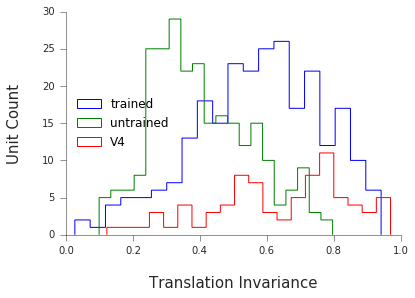
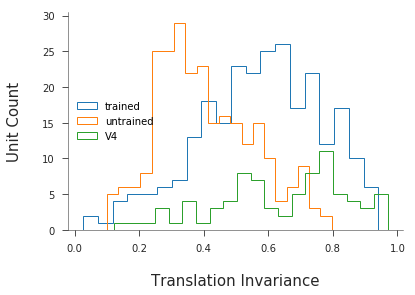
edited figures for paper and started on rf 2d

diff --git a/analysis/figures/scripts/all_v4cnn_figures.py b/analysis/figures/scripts/all_v4cnn_figures.py
@@ -125,13 +125,13 @@ def cartesian_axes(ax, x_line=True, y_line=True, unity=False):
     
     if x_line:
         #ax.spines['bottom'].set_position('center')
-        ax.plot([xlim[0], xlim[1]], [0, 0], color=more_grey,lw=2, alpha=0.5)
+        ax.plot([xlim[0], xlim[1]], [0, 0], color=more_grey,lw=1, alpha=0.5)
     if y_line:
         #ax.spines['left'].set_position('center')
-        ax.plot([0, 0], [ylim[0], ylim[1]], color=more_grey,lw=2,alpha=0.5)
+        ax.plot([0, 0], [ylim[0], ylim[1]], color=more_grey,lw=1,alpha=0.5)
     
     if unity:
-        ax.plot(xlim, xlim, color=more_grey, lw=2,alpha=0.5)
+        ax.plot(xlim, xlim, color=more_grey, lw=1,alpha=0.5)
 
     
         
@@ -334,10 +334,15 @@ no_blank_image = trans_img_stack[1:]
 a = np.hstack((range(14), range(18, 318)));a = np.hstack((a, range(322, 370)))
 no_blank_image = no_blank_image[a]/255.
 #%%
+if sys.platform == 'linux2': 
+    data_dir = '/loc6tb/dean/'
+else:
+    data_dir = top_dir
 
 goforit = 1
 #loading up all needed data
 if 'cnn_an' not in locals() or goforit:
+    
     v4_name = 'V4_362PC2001'
     v4_resp_apc = xr.open_dataset(top_dir + 'data/responses/' + v4_name + '.nc')['resp'].load()
     v4_resp_apc = v4_resp_apc.transpose('shapes', 'unit')
@@ -370,12 +375,14 @@ if 'cnn_an' not in locals() or goforit:
     v4_resp_apc = v4_resp_apc.transpose('shapes','unit')
     for unit in range(len(v4_resp_apc_null.coords['unit'])):
         v4_resp_apc_null[:, unit] = np.random.permutation(v4_resp_apc[:, unit].values)
-
+        
     null_v4 = process_V4(v4_resp_apc_null, v4_resp_ti_null, dmod)
     
     cnn_names =['bvlc_reference_caffenetAPC362_pix_width[32.0]_pos_(64.0, 164.0, 51)',]
-    
-    da = xr.open_dataset(top_dir + 'data/responses/' + cnn_names[0] + '.nc')['resp']
+    if sys.platform == 'linux2':
+        da = xr.open_dataset(data_dir + 'data/responses/' + cnn_names[0] + '.nc')['resp']
+    else:
+        da = xr.open_dataset(top_dir + 'data/responses/' + cnn_names[0] + '.nc')['resp']
     da = da.sel(unit=slice(0, None, 1)).squeeze()
     middle = np.round(len(da.coords['x'])/2.).astype(int)
     da_0 = da.sel(x=da.coords['x'][middle])
@@ -605,19 +612,25 @@ for leg in hist_dat_leg:
     leg['labelspacing'] = 0
 for i, ax_ind in enumerate(hist_pos):
     ax = ax_list[ax_ind]
-    if not (ax_ind==hist_pos[-1]):
+    if i==0:
+        colors = ['r','g','b','m','c', 'k', '0.5']
+    elif i==1:
         colors = ['k','g','b','m','c', 'k', '0.5']
     else:
         colors = cm.copper(np.linspace(0,1,len(hist_dat[i])))
         colors[-1] = [1, 0, 0, 0]
-        colors = np.array([[226,128,9,1],[190,39,45,1], [127,34, 83,1], [ 119, 93, 153,1], 
-                  [54, 58, 100,1], [157,188,88,1], [75,135,71,1],[ 59, 88,62,1], [0,0,0,1]])
-        colors = colors / np.array([[255,255,255,1]])
+        #colors = np.array([[226,128,9,1],[190,39,45,1], [127,34, 83,1], [ 119, 93, 153,1], 
+                  #[54, 58, 100,1], [157,188,88,1], [75,135,71,1],[ 59, 88,62,1], [0,0,0,1]])
+        #colors = colors / np.array([[255,255,255,1]])
         
 
     for apc_vals, color in zip(hist_dat[i], colors):
         x = apc_vals.dropna().values
-        y_c, bins_c = d_hist(ax, np.sqrt(x), cumulative=True, color=color, alpha=0.75, lw=2)   
+        if i==2:
+            lw=1
+        else:
+            lw=2
+        y_c, bins_c = d_hist(ax, np.sqrt(x), cumulative=True, color=color, alpha=0.75, lw=lw)   
     bins_c = np.concatenate([apc_vals.dropna().values for apc_vals in hist_dat[i]]).ravel()
     beautify(ax, spines_to_remove=['top','right'])
     ax.set_xticks([0,0.5,1])
@@ -641,22 +654,21 @@ for i, ax_ind in enumerate(hist_pos):
     
 ax_list[0].set_title('Cumulative Distribution', fontsize=12) 
 ax_list[0].set_ylabel('Fraction < r', labelpad=0, fontsize=12) 
-ax_list[0].text(0.6, 0.1, 'V4', transform=ax_list[0].transAxes)
+ax_list[0].text(0.6, 0.1, 'V4', transform=ax_list[0].transAxes, fontsize=12)
 ax_list[0].text(0.05,0.6, 'Shuffled', transform=ax_list[0].transAxes, color='g', rotation=80)
-ax_list[0].text(0.4,0.6, 'Unshuffled', transform=ax_list[0].transAxes, color='k',rotation=45)
+ax_list[0].text(0.4,0.6, 'Unshuffled', transform=ax_list[0].transAxes, color='r',rotation=45)
 
 
 ax_list[3].text(0.5, 0.1, 'CNN all layers', transform=ax_list[3].transAxes)
-ax_list[3].text(0.2,0.75, 'Untrained', transform=ax_list[3].transAxes, color='b', rotation=60)
+ax_list[3].text(0.24,0.75, 'Untrained', transform=ax_list[3].transAxes, color='b', rotation=60)
 
 ax_list[6].text(0.5, 0.1, 'CNN by layer', transform=ax_list[6].transAxes)
-ax_list[6].text(0.22,0.5, 'conv1',transform=ax_list[6].transAxes, color=colors[0])
-ax_list[6].text(0.65,0.5, 'fc8', transform=ax_list[6].transAxes, 
-                color=colors[-2], fontsize=14)
+for name in layer_names:
+    ax_list[6].text(0.22,0.5, 'conv1',transform=ax_list[6].transAxes, color=colors[0])
+ax_list[6].text(0.65,0.5, 'fc8', transform=ax_list[6].transAxes, color=colors[-2], fontsize=14)
 ax_list[6].text(0.12, 0.09, 'V4', transform=ax_list[6].transAxes, 
-                color=colors[-1], fontsize=10)
+                color=colors[-1], fontsize=10, color='r')
 ax_list[6].set_xlabel('APC fit r', labelpad=0, fontsize=12)
-
 
 example_cell_inds = [1,4,7]
 v4 = cnn_an.loc['resp'].loc['v4']
@@ -690,11 +702,11 @@ hi_curv_resp = hi_curv_resp.reindex_like(model_resp)
 scatter_dat.append([hi_curv_resp, model_resp, b_unit])
                 
 
-kw = {'s':2., 'linewidths':0, 'c':'r'}
+kw = {'s':2., 'linewidths':0, 'c':'k'}
 colorbar = 1
 for ax_ind, dat in zip(example_cell_inds, scatter_dat):
     ax = ax_list[ax_ind]
-    x,y= scatter_lsq(ax, dat[0].values, dat[1].values, lsq=True,
+    x,y = scatter_lsq(ax, dat[0].values, dat[1].values, lsq=True,
                      mean_subtract=True, **kw)
     frac_var = np.corrcoef(x.T, y.T)[0,1]
     cartesian_axes(ax, x_line=True, y_line=True, unity=True)
@@ -769,7 +781,7 @@ gs.tight_layout(plt.gcf())
 
 labels = ['A.', 'B.', 'C.', 'D.', 'E.', 'F.', 'G.', 'H.', 'I.']
 for ax, label in zip(ax_list, labels):
-    ax.text(-0.05, 1.1, label, transform=ax.transAxes,
+    ax.text(-0, 1.1, label, transform=ax.transAxes,
       fontsize=fs+2, fontweight='bold', va='top', ha='right')
 plt.savefig(top_dir + '/analysis/figures/images/v4cnn_cur/fig'+
             str(figure_num[fig_ind])+ '_apc_figs_v4cnn.pdf', bbox_inches='tight', dpi=500)
@@ -1187,18 +1199,20 @@ plt.savefig(top_dir + '/analysis/figures/images/v4cnn_cur/fig'
 fig_ind += 1
 
 #%%
+un_inds = xr.open_dataset(top_dir + '/data/models/apc_models_362_16X16.nc')['resp'].coords['shapes'].values
 layers_to_examine = ['conv1', 'relu1', 'norm1',  'conv2', 'fc6', 'prob']
+layer_names = ['Conv1', 'Relu1', 'Norm1',  'Conv2', 'FC6', 'Prob']
 #layers_to_examine = 'all'
 name = 'bvlc_reference_caffenetAPC362_pix_width[64.0]_pos_(64.0, 164.0, 51).nc'
-cnn = [xr.open_dataset(top_dir + 'data/responses/' + name)['resp'].sel(x=114), ]
+cnn = [xr.open_dataset(data_dir + 'data/responses/' + name)['resp'].sel(x=114), ]
 
 name = 'bvlc_reference_caffenetAPC362_pix_width[32.0]_pos_(114.0, 114.0, 1)_amp_(100, 255, 2).nc'
-cnns = [xr.open_dataset(top_dir + 'data/responses/' + name)['resp'].sel(amp=amp) for amp in [255, 100]] + cnn
+cnns = [xr.open_dataset(data_dir + 'data/responses/' + name)['resp'].sel(amp=amp) for amp in [255, 100]] + cnn
 
 name = 'bvlc_reference_caffenet_nat_image_resp_371.nc'
-cnn = [xr.open_dataset(top_dir + 'data/responses/' + name)['resp'],]   
+cnn = [xr.open_dataset(data_dir + 'data/responses/' + name)['resp'],]   
 cnns = cnns + cnn
-cnns = [cnns[0], cnns[-1], cnns[1], cnns[2]]
+cnns = [cnns[0], cnns[2], cnns[1], cnns[-1]]
 
 n_plot = len(layers_to_examine)
 plt.figure(figsize=(3/1.5,n_plot*1.5/1.5))
@@ -1217,26 +1231,27 @@ for i, a_lay in enumerate(layers_to_examine):
         var = a_cnn[...,all_lays==a_lay].values.ravel()
         all_nets.append(var)
     the_range.append(np.abs([np.max(np.array(all_nets)), np.min(np.array(all_nets))]).max())
-        
+colors = ['b', 'c', 'g', 'r']     
 for i, a_lay in enumerate(layers_to_examine):
     ax = ax_list[i]
 
-    for a_cnn in cnns:
+    for j, a_cnn in enumerate(cnns):
 
         all_lays = a_cnn.coords['unit'].layer_label.values.astype(str)
-        var = a_cnn[...,all_lays==a_lay].values.ravel()
+        var = a_cnn[...,all_lays==a_lay].values[1:,:][un_inds].ravel()
         n, bins = np.histogram(var, bins=100, normed=False) 
         
         n =  n/float(len(var));
-        ax.plot(bins[1:], np.convolve(gaussian(np.linspace(-1,1,20), 0, 0.15), n, mode='same'))
+        ax.plot(bins[1:], np.convolve(gaussian(np.linspace(-1,1,20), 0, 0.15), 
+                n, mode='same'), color=colors[j])
     ax.semilogy(nonposy='clip')
     ax.set_ylim(10/len(var), 1)
     ax.set_xlim(-the_range[i], the_range[i])
     ax.spines['right'].set_visible(False)
     ax.spines['top'].set_visible(False)
-    ax.set_xticks([0,])
-    ax.set_xticklabels([' ',])
-    ax.set_title(a_lay,)
+    ax.set_xticks([0, ax.get_xlim()[1]])
+    ax.set_xticklabels([' ', int(np.round(ax.get_xlim()[1],0))])
+    ax.set_title(layer_names[i],)
     ax.xaxis.set_ticks_position('bottom')
     ax.yaxis.set_ticks_position('left')
     
@@ -1244,16 +1259,19 @@ for i, a_lay in enumerate(layers_to_examine):
     ax.set_yticklabels(['',''])
     ax.tick_params('y', length=0, width=0, which='minor')
 
-ax_list[0].legend(['Amp. 255, Width 32 Pix.', 'Photographs', 'Amp. 100, Width 32 Pix.', 
-                    'Amp. 255, Width 64 Pix.', ], loc=(-0.3, 1.5), frameon=0, 
+#ax_list[0].legend(['Amp. 255, Width 32 Pix.', 'Photographs', 'Amp. 100, Width 32 Pix.', 
+#                    'Amp. 255, Width 64 Pix.', ], loc=(-0.3, 1.5), frameon=0, 
+#                    fontsize=7, markerfirst=False)
+ax_list[0].legend(['Standard Shapes', 'Dimmer Shapes', 
+                    'Larger Shapes', 'Photographs',  ], loc=(-0.3, 1.5), frameon=0, 
                     fontsize=7, markerfirst=False)
-ax_list[0].set_ylabel('log(%)')
+ax_list[-1].set_ylabel('%')
 #ax_list[0].set_xlabel('Response', labelpad=0)
-ax_list[0].text(-0.1,-.27, 'Response', transform=ax_list[0].transAxes, color='k', rotation=0)
-ax_list[0].set_yticklabels(['1', '.01'])
-ax_list[0].set_xticklabels([0,])
+ax_list[-1].text(0.2,-.8, 'Response', transform=ax_list[-1].transAxes, color='k', rotation=0)
+ax_list[-1].set_yticklabels(['1', '.01'])
+ax_list[-1].set_xticklabels([0, 1])
 
-
+fig_ind = 4
 plt.tight_layout(h_pad=0.2)
 plt.savefig(top_dir + '/analysis/figures/images/v4cnn_cur/fig'
             +str(figure_num[fig_ind])+'_dynamic_range.pdf',

diff --git a/misc/make_plots_of_ti_vs_wtcov.py b/misc/make_plots_of_ti_vs_wtcov.py
@@ -11,7 +11,10 @@ import os, sys
 import matplotlib.pyplot as plt
 import pickle
 from scipy.stats import linregress
-
+if sys.platform == 'linux2': 
+    data_dir = '/loc6tb/dean/'
+else:
+    data_dir = top_dir
 layer_labels_b = [b'conv2', b'conv3', b'conv4', b'conv5', b'fc6']
 layer_labels = ['conv2', 'conv3', 'conv4', 'conv5', 'fc6']
 
@@ -250,17 +253,24 @@ netwtsd['conv3']
 #%%
 net_name = 'bvlc_reference_caffenetpix_width[32.0]_x_(34.0, 194.0, 21)_y_(34.0, 194.0, 21)_amp_NonePC370.nc'
 
-da = xr.open_dataset(top_dir + '/data/responses/'+net_name)['resp'].load()
+da = xr.open_dataset(data_dir + '/data/responses/'+net_name)['resp'].load()
 #%%
 da = da.squeeze()
 da = da.transpose('unit','shapes', 'x', 'y')
 da = da[:11904]
+
 da = da - da[:, 0, :, :] #subtract off baseline
 da = da[:, 1:, ...] #get rid of baseline shape 
+
 
 #%%
 x = da.coords['x'].values
 y = da.coords['y'].values
+
+x_dist = x[:, np.newaxis] - x[:, np.newaxis].T
+y_dist = y[:, np.newaxis] - y[:, np.newaxis].T
+dist_mat = (x_dist**2 + y_dist**2)**0.5
+stim_diam = 32
 
 
     

diff --git a/misc/norm_cov_scratch.py b/misc/norm_cov_scratch.py
@@ -83,6 +83,7 @@ def kurtosis_da(resp):
     dims = resp.coords.dims   
     
     if ('x' in resp) and ('y' in dims):
+        resp = resp.transpose('unit', 'shapes', 'x', 'y')
     elif ('x' in dims):
         resp = resp.transpose('unit', 'shapes', 'x')
     elif ('y' in dims):
@@ -110,10 +111,16 @@ def tot_var(resp):
     
 
 #%%
+if sys.platform == 'linux2': 
+    data_dir = '/loc6tb/dean/'
+else:
+    data_dir = top_dir
+
 net_name = 'bvlc_reference_caffenetpix_width[32.0]_x_(34.0, 194.0, 21)_y_(34.0, 194.0, 21)_amp_NonePC370.nc'
-da = xr.open_dataset(top_dir + '/data/responses/'+net_name)['resp']
+da = xr.open_dataset(data_dir + '/data/responses/'+net_name)['resp']
 da = da.squeeze()
 da = da.transpose('unit','shapes', 'x', 'y')
+#%%
 da = da[:5472:1]
 da = da - da[:, 0, :, :] #subtract off baseline
 da = da[:, 1:, ...] #get rid of baseline shape   

diff --git a/common/apc_model_fit.py b/common/apc_model_fit.py
@@ -11,8 +11,8 @@ import warnings
 import os, sys
 from collections import OrderedDict as ord_d
 
-top_dir = os.getcwd().split('net_code')[0]
-sys.path.append(top_dir + 'xarray')
+top_dir = os.getcwd().split('v4cnn')[0]
+sys.path.append(top_dir + 'xarray/')
 top_dir = top_dir+ 'net_code/'
 sys.path.append(top_dir)
 sys.path.append(top_dir + 'common')
